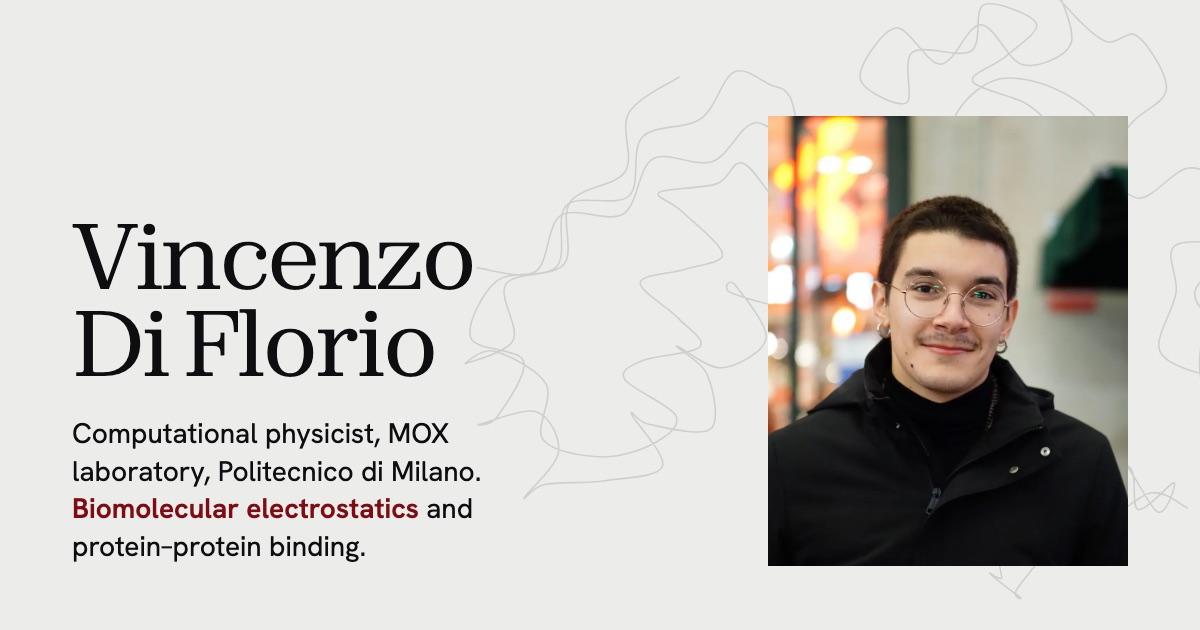
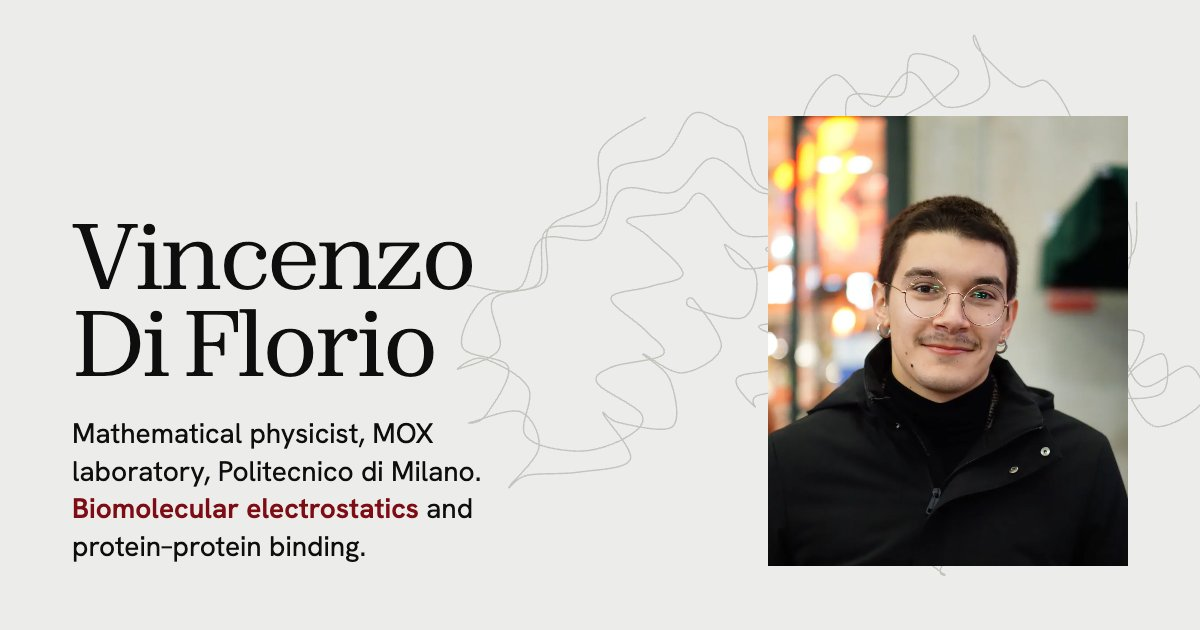
Etichetta: Mathematical physicist nel titolo, nell'anteprima social (og.jpg rifatta, sorgente in redesign/tools/og.html) e nel CV industria

diff --git a/redesign/tools/og.html b/redesign/tools/og.html
@@ -1,0 +1,24 @@
+<!doctype html><html><head><meta charset="utf-8">
+<!-- Source of docs/assets/img/og.jpg (1200×630). Serve the repository root (python3 -m http.server 8002),
+     open http://127.0.0.1:8002/redesign/tools/og.html in a 1200×630 window and capture it; save as JPEG, quality 85. -->
+<link rel="stylesheet" href="https://api.fontshare.com/v2/css?f[]=zodiak@400&display=swap">
+<style>
+@font-face { font-family: "Hanken Grotesk"; src: url("/docs/assets/fonts/hanken-grotesk-latin.woff2") format("woff2"); font-weight: 400 600; }
+html, body { margin: 0; }
+body { width: 1200px; height: 630px; overflow: hidden; position: relative; background: #ececea; color: #0e0e0f; font-family: "Hanken Grotesk", sans-serif; }
+.motif { position: absolute; width: 860px; right: -60px; top: -20px; fill: none; stroke: #c4c4be; stroke-width: 1.4; stroke-linecap: round; stroke-linejoin: round; }
+.motif path { vector-effect: non-scaling-stroke; }
+h1 { position: absolute; left: 72px; top: 212px; margin: 0; font: 400 92px/0.95 "Zodiak", Georgia, serif; letter-spacing: -0.035em; }
+h1 span { display: block; }
+p { position: absolute; left: 72px; top: 415px; width: 470px; margin: 0; font-size: 28px; line-height: 1.34; }
+p b { color: #7d0c14; font-weight: 600; }
+img { position: absolute; left: 768px; top: 116px; width: 360px; height: 450px; object-fit: cover; object-position: 50% 28%; }
+</style></head><body>
+<svg class="motif" viewBox="0 0 598.3 453.4" aria-hidden="true" focusable="false">
+    <path data-chain="A" d="M512.4 154.7C511.8 161 515 184.9 508.4 192.3C501.8 199.8 478.4 193.4 472.7 199.2C466.9 205.1 475.2 216.7 473.8 227.5C472.3 238.3 459.8 255.6 464.2 263.8C468.7 272 491.6 279.5 500.5 276.7C509.4 273.9 518.9 252 517.6 247.2C516.3 242.5 496.9 241.6 492.6 248.2C488.3 254.7 485.6 279.8 491.8 286.4C498 293 523.2 292.1 529.7 287.8C536.2 283.4 534.8 261.7 530.8 260.1C526.8 258.6 506.7 270 505.7 278.4C504.7 286.8 515.9 308 524.7 310.5C533.4 313 554.2 300.4 558.3 293.4C562.3 286.4 556 270.4 549 268.6C542 266.8 524.7 285.9 516.4 282.7C508 279.4 503.8 258.5 498.6 249.3C493.5 240 484 235.1 485.3 226.9C486.7 218.8 503.5 210.6 506.8 200.4C510.1 190.1 509.5 173.5 505.3 165.3C501.1 157.1 490.4 150.7 481.5 151.4C472.6 152.2 460.9 169 451.9 169.8C442.9 170.6 436.6 156 427.2 156.4C417.8 156.7 406.5 171.6 395.4 172C384.3 172.4 367 163.5 360.7 158.8C354.5 154 352.7 148.9 357.9 143.5C363.1 138.1 387.8 131.6 391.9 126.4C395.9 121.2 389.4 116.9 382.4 112.2C375.3 107.6 351.7 103.3 349.6 98.4C347.5 93.6 363.5 89 370 83.1C376.5 77.2 390.7 68.4 388.5 63.2C386.2 57.9 363.1 49 356.5 51.8C349.9 54.6 356 75.1 348.7 80C341.4 84.8 319.4 75.5 312.8 80.8C306.1 86.1 314.3 109.2 309 111.8C303.7 114.5 282 104.2 280.9 96.6C279.9 88.9 294.4 67.3 302.6 65.9C310.7 64.5 321.4 88.4 330.1 88C338.8 87.7 346.2 63.9 354.6 64C363 64 371.2 86.4 380.3 88.4C389.5 90.3 406.3 83.7 409.6 75.6C413 67.6 401.7 44.7 400.4 40C399.1 35.3 397 41.9 401.9 47.6C406.8 53.2 421.8 69.8 429.8 73.7C437.9 77.6 443.9 66 450.2 70.9C456.6 75.8 468.5 94.1 467.9 102.9C467.3 111.8 454 115.6 446.6 124C439.3 132.4 431.9 145.5 423.8 153.1C415.6 160.7 399.8 161.4 397.7 169.6C395.5 177.8 407.9 193.5 410.7 202.3C413.6 211.1 420 218.3 414.6 222.4C409.2 226.5 386.6 220.3 378.3 226.8C370.1 233.2 370.2 251.9 365.4 261C360.6 270 357.1 274.3 349.7 281.1C342.2 287.9 325.9 294.2 320.8 301.7C315.6 309.1 325.4 322.1 318.8 325.8C312.1 329.5 288.3 320.2 281 323.7C273.7 327.3 271.8 339.1 275 347.2C278.3 355.3 292.6 368.1 300.3 372.4C308 376.8 311.9 373.3 321.1 373.1C330.2 372.9 347.6 366.4 355.3 371C363 375.6 366.5 396 367.3 400.7C368.1 405.3 358.3 396.9 360.2 399C362.1 401.2 375.9 411.8 378.6 413.4C381.3 415 373.1 414.5 376.5 408.8C379.9 403.1 394.9 386.3 398.8 379C402.8 371.8 401.8 373.4 400.1 365.2C398.4 357 390.6 338.6 388.5 329.8C386.4 321 386.4 321.3 387.3 312.4C388.3 303.5 393.3 285.5 394.1 276.4C394.9 267.4 389.8 266.1 392.2 258.2C394.5 250.3 406.8 237 408.1 228.9C409.4 220.8 397.6 211.5 399.9 209.4C402.2 207.3 417.1 219 422.2 216.4C427.2 213.9 431.6 202.9 430.4 194.1C429.1 185.3 415 174.4 414.9 163.5C414.7 152.6 431.8 138.7 429.4 128.7C427.1 118.7 411.9 108.6 400.8 103.5C389.8 98.3 373.8 94.4 363.2 97.8C352.6 101.2 339.9 113.9 337.2 124.2C334.4 134.5 344.4 149.2 346.8 159.6C349.2 170.1 351.9 176.2 351.4 186.9C350.9 197.6 339.5 215.4 344 224C348.6 232.5 371.3 233.4 378.6 238.2C385.9 242.9 381.7 246.6 387.8 252.4C393.9 258.2 412.6 265.5 415.2 272.9C417.9 280.2 401.5 290.4 403.7 296.4C405.9 302.4 424.8 302.7 428.6 308.7C432.4 314.7 424.2 328.6 426.3 332.3C428.5 336 435.5 326.1 441.6 330.9C447.6 335.8 457.6 359.3 462.7 361.4C467.9 363.5 474.5 343.8 472.5 343.5C470.4 343.3 455.1 361.6 450.6 359.9C446 358.3 450.8 338.3 445.1 333.7C439.5 329 423.3 336.7 416.6 332C410 327.3 412.7 311.6 405.3 305.4C397.9 299.3 378.2 300.4 372 295C365.9 289.6 375.1 276 368.3 272.9C361.4 269.8 339.4 278.2 331 276.2C322.6 274.3 319.5 258.4 317.7 261.2C315.9 264.1 322.9 283.9 320.2 293.2C317.4 302.4 299.2 309.2 301.1 316.5C303.1 323.9 321.1 333.1 331.8 337.3C342.5 341.4 354.2 338.5 365.4 341.4C376.6 344.3 388.9 350.2 399 354.7C409.1 359.2 416.3 369.3 426.2 368.5C436 367.6 449.2 351.3 458.3 349.8C467.5 348.2 477.3 357.7 481.1 359.2"/>
+    <path data-chain="D" d="M170.7 95.6C165.5 99.3 145.2 108.1 139.7 117.8C134.1 127.5 143.4 144.6 137.4 153.7C131.4 162.7 110 162.9 103.8 172.3C97.6 181.7 106.7 201.6 100.2 210C93.7 218.3 69.9 214.5 64.7 222.2C59.5 230 73.2 248.5 69.1 256.6C65 264.7 41.9 269.7 40 270.8C38.1 272 49.4 261.2 57.6 263.3C65.8 265.4 84.2 274.4 89.2 283.4C94.2 292.4 81.6 310 87.5 317.4C93.3 324.8 112.6 327.6 124.2 327.8C135.7 328 149.4 322.8 156.8 318.5C164.2 314.3 171.6 308.8 168.3 302.5C165.1 296.1 140.7 286.1 137.3 280.6C133.8 275 139.9 272.6 147.5 269.2C155.2 265.9 179.4 264.8 183.1 260.5C186.9 256.1 176 249.7 170 243.2C163.9 236.6 145.9 226.4 146.7 221.3C147.5 216.3 166.3 216 174.7 213.1C183 210.2 197.4 209.8 196.9 203.9C196.5 198 178.4 184.1 172 177.8C165.5 171.5 154.7 169.1 158.3 166.3C161.8 163.5 184.7 164.1 193.3 161.1C201.8 158.1 202.7 146 209.7 148.6C216.7 151.2 226.1 171.5 235.5 176.5C244.8 181.5 261.6 175.8 265.8 178.9C270 181.9 257.5 187.4 260.7 194.6C264 201.9 285 216.3 285.4 222.3C285.9 228.2 266.1 223 263.5 230.4C260.9 237.7 274.8 258.7 270 266.4C265.1 274.2 238.2 271.8 234.4 276.9C230.5 281.9 244.6 294.7 246.9 296.8C249.2 298.9 241.8 292.1 248.3 289.3C254.8 286.5 280.7 285.5 285.8 279.9C291 274.3 285.2 262.1 279.2 255.8C273.2 249.4 251.1 244.9 249.7 241.7C248.3 238.4 262.8 240.1 270.8 236.3C278.9 232.5 297.6 225.7 297.9 218.9C298.1 212.2 279.6 201.1 272.4 195.7C265.2 190.3 252.1 189.4 254.8 186.6C257.5 183.7 279.8 182.5 288.7 178.7C297.6 174.9 308.8 168.6 308.2 163.9C307.5 159.2 294.5 154.3 284.7 150.7C275 147.2 257.4 149.7 249.7 142.6C241.9 135.5 242.2 115.2 238.2 108.2C234.2 101.2 231.4 103 225.7 100.4C219.9 97.9 210.8 89.4 203.8 92.9C196.8 96.3 193 114.7 183.7 121.3C174.4 128 155.2 124.7 147.9 132.6C140.6 140.5 147.4 161.6 139.7 168.5C132 175.5 109 167 101.6 174.2C94.3 181.4 102.7 203.9 95.6 211.6C88.5 219.3 67.7 213.3 59 220.5C50.2 227.8 40.4 247 43.2 255.1C45.9 263.3 72.7 261.3 75.4 269.3C78.1 277.3 64 296.7 59.5 303.1C55 309.6 44.5 308.4 48.5 307.9C52.5 307.4 75.5 297.4 83.6 300.3C91.6 303.2 98 316.4 96.7 325.2C95.5 333.9 77.3 349.5 75.9 352.7C74.5 355.9 80.1 346.3 88.3 344.6C96.5 342.8 113.1 344.2 125.1 342.3C137.1 340.5 157.5 340.3 160.3 333.5C163 326.7 142.7 305.9 141.4 301.7C140.1 297.4 144.4 306.5 152.5 308C160.5 309.5 183.8 315.7 189.7 310.7C195.6 305.6 191.1 286.1 187.6 277.7C184.2 269.2 167.5 260.8 168.9 260.1C170.4 259.4 187.2 274.1 196.3 273.4C205.4 272.6 222.1 263.9 223.5 255.4C224.8 246.9 208 227.2 204.4 222.6C200.9 217.9 196.3 225.7 202.2 227.7C208 229.7 231.9 238.5 239.5 234.6C247 230.8 249.9 213 247.6 204.6C245.4 196.1 227.1 184.5 225.9 183.9C224.6 183.3 232.1 200 240 200.9C248 201.8 269.8 197.4 273.5 189.4C277.2 181.4 266.6 160 262.3 152.9C258 145.7 255.3 151.1 247.8 146.3C240.3 141.5 227 123.6 217.5 123.8C207.9 124 201.2 143.8 190.7 147.5C180.1 151.1 163.3 140.6 154.2 146C145.2 151.3 145.6 173.8 136.3 179.5C126.9 185.2 107.2 174.5 98.2 180.4C89.3 186.2 91.2 209.3 82.6 214.7C74 220 52.8 212.7 46.8 212.4"/>
+  </svg>
+<h1><span>Vincenzo</span><span>Di Florio</span></h1>
+<p>Mathematical physicist, MOX laboratory, Politecnico di Milano. <b>Biomolecular electrostatics</b> and protein–protein binding.</p>
+<img src="/docs/assets/img/portrait-900.webp" alt="">
+</body></html>

diff --git a/docs/index.html b/docs/index.html
@@ -3,19 +3,19 @@
 <head>
 <meta charset="utf-8">
 <meta name="viewport" content="width=device-width, initial-scale=1">
-<title>Vincenzo Di Florio · Computational physicist, Politecnico di Milano</title>
+<title>Vincenzo Di Florio · Mathematical physicist, Politecnico di Milano</title>
 <meta name="description" content="Vincenzo Di Florio, post-doctoral research fellow at the MOX laboratory, Department of Mathematics, Politecnico di Milano: biomolecular electrostatics, protein–protein binding, Poisson–Boltzmann solvers and non-equilibrium statistical mechanics.">
 <link rel="canonical" href="https://vdiflorio.github.io/">
 <meta name="google-site-verification" content="ZXYaF9dvllKsBH9Ag5WxbhiPO9mycLVj769xHcHOAzg">
 <meta property="og:type" content="website">
 <meta property="og:site_name" content="Vincenzo Di Florio">
-<meta property="og:title" content="Vincenzo Di Florio · Computational physicist, Politecnico di Milano">
+<meta property="og:title" content="Vincenzo Di Florio · Mathematical physicist, Politecnico di Milano">
 <meta property="og:description" content="Vincenzo Di Florio, post-doctoral research fellow at the MOX laboratory, Department of Mathematics, Politecnico di Milano: biomolecular electrostatics, protein–protein binding, Poisson–Boltzmann solvers and non-equilibrium statistical mechanics.">
 <meta property="og:url" content="https://vdiflorio.github.io/">
 <meta property="og:image" content="https://vdiflorio.github.io/assets/img/og.jpg">
 <meta property="og:image:width" content="1200">
 <meta property="og:image:height" content="630">
-<meta property="og:image:alt" content="Vincenzo Di Florio, computational physicist at Politecnico di Milano">
+<meta property="og:image:alt" content="Vincenzo Di Florio, mathematical physicist at Politecnico di Milano">
 <meta name="twitter:card" content="summary_large_image">
 <link rel="icon" href="/assets/img/favicon.svg" type="image/svg+xml">
 <script>try { const t = localStorage.getItem('theme'); if (t) document.documentElement.dataset.theme = t; } catch (e) {}</script>

diff --git a/docs/404.html b/docs/404.html
@@ -13,7 +13,7 @@
 <meta property="og:image" content="https://vdiflorio.github.io/assets/img/og.jpg">
 <meta property="og:image:width" content="1200">
 <meta property="og:image:height" content="630">
-<meta property="og:image:alt" content="Vincenzo Di Florio, computational physicist at Politecnico di Milano">
+<meta property="og:image:alt" content="Vincenzo Di Florio, mathematical physicist at Politecnico di Milano">
 <meta name="twitter:card" content="summary_large_image">
 <link rel="icon" href="/assets/img/favicon.svg" type="image/svg+xml">
 <script>try { const t = localStorage.getItem('theme'); if (t) document.documentElement.dataset.theme = t; } catch (e) {}</script>

diff --git a/docs/cv/index.html b/docs/cv/index.html
@@ -15,7 +15,7 @@
 <meta property="og:image" content="https://vdiflorio.github.io/assets/img/og.jpg">
 <meta property="og:image:width" content="1200">
 <meta property="og:image:height" content="630">
-<meta property="og:image:alt" content="Vincenzo Di Florio, computational physicist at Politecnico di Milano">
+<meta property="og:image:alt" content="Vincenzo Di Florio, mathematical physicist at Politecnico di Milano">
 <meta name="twitter:card" content="summary_large_image">
 <link rel="icon" href="/assets/img/favicon.svg" type="image/svg+xml">
 <script>try { const t = localStorage.getItem('theme'); if (t) document.documentElement.dataset.theme = t; } catch (e) {}</script>

diff --git a/docs/publications/index.html b/docs/publications/index.html
@@ -15,7 +15,7 @@
 <meta property="og:image" content="https://vdiflorio.github.io/assets/img/og.jpg">
 <meta property="og:image:width" content="1200">
 <meta property="og:image:height" content="630">
-<meta property="og:image:alt" content="Vincenzo Di Florio, computational physicist at Politecnico di Milano">
+<meta property="og:image:alt" content="Vincenzo Di Florio, mathematical physicist at Politecnico di Milano">
 <meta name="twitter:card" content="summary_large_image">
 <link rel="icon" href="/assets/img/favicon.svg" type="image/svg+xml">
 <script>try { const t = localStorage.getItem('theme'); if (t) document.documentElement.dataset.theme = t; } catch (e) {}</script>

diff --git a/cv/cv-industry.tex b/cv/cv-industry.tex
@@ -7,7 +7,7 @@
 
 \begin{document}
 
-\cvheader{Computational scientist: numerical methods and scientific software in C++}
+\cvheader{Mathematical physicist: numerical methods and scientific software in C++}
 
 %==============================================================================
 \section{Profile}

diff --git a/redesign/design.md b/redesign/design.md
@@ -289,6 +289,12 @@ sviluppato "with its co-authors" (first author dell'articolo), PINN *physics-inf
 tolta la frase ripetuta in Research interests (accademico), "Ph.D." ovunque, sottotitolo industria "Computational
 scientist: numerical methods and scientific software in C++".
 
+**Etichetta (2026-11-25, decisa con Vincenzo):** "Mathematical physicist" al posto di "Computational physicist" nel
+`<title>`, in `og:title`, negli alt dell'immagine social e dentro `og.jpg`; nel CV industria il sottotitolo è
+"Mathematical physicist: numerical methods and scientific software in C++" (l'etichetta è la sua, le parole chiave per
+chi seleziona restano). `og.jpg` rifatta identica cambiando solo la parola; il sorgente ora è in
+`redesign/tools/og.html` (istruzioni nel commento in testa).
+
 **Misure dopo:** `inspect.mjs` 0 FAIL su tutte le pagine (unico WARN "nessun video"); `lint.mjs docs` 0 FAIL 0 WARN;
 `impeccable detect` sulle pagine renderizzate 0 segnalazioni; `verifica-online.sh` sull'anteprima 47 ok, 0 errori;
 PDF ricompilati (accademico 4 pagine, industria 2).
